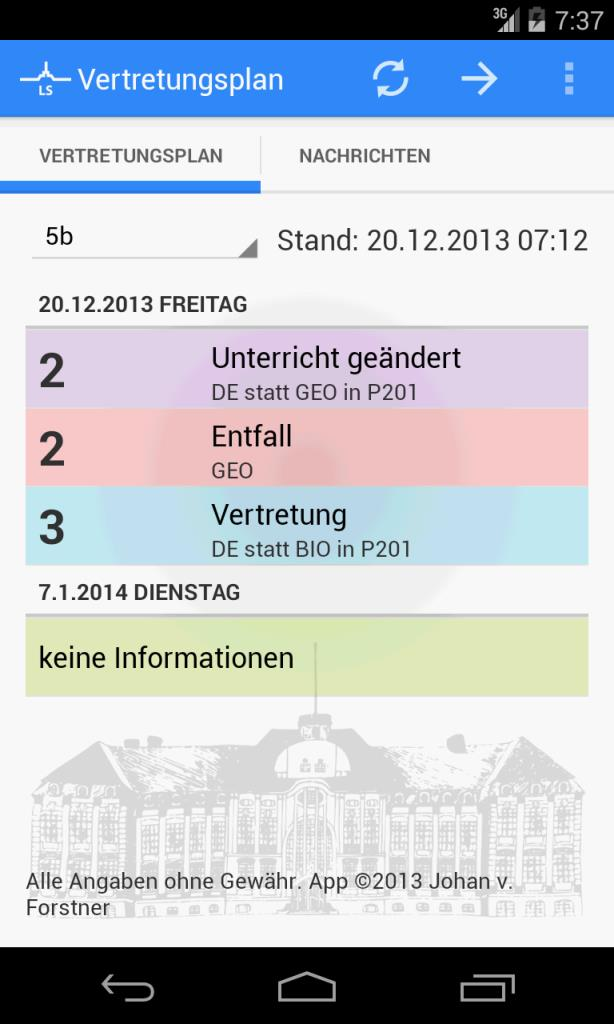
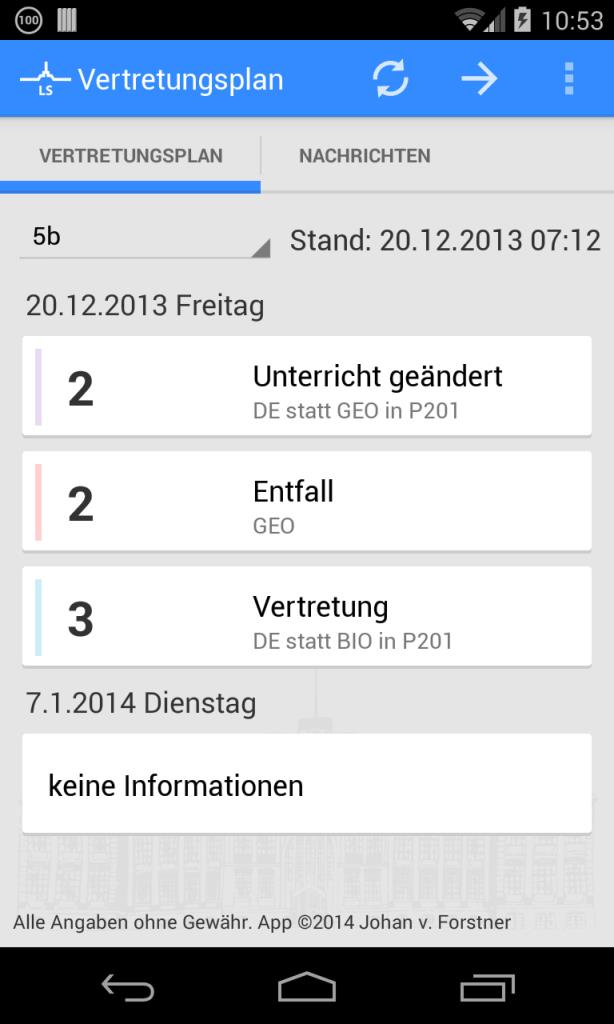
Update Screenshots and Copyright for version 2.1

diff --git a/index.html b/index.html
@@ -338,7 +338,7 @@ Fix: Absturz ohne Internetverbindung</p>
 
 	<footer id="colophon" role="contentinfo">
 		<div id="site-generator">
-			<p>Copyright &copy; 2013 Johan v. Forstner</p>
+			<p>Copyright &copy; 2014 Johan v. Forstner</p>
 		</div>
 
 	</footer><!-- #colophon -->
